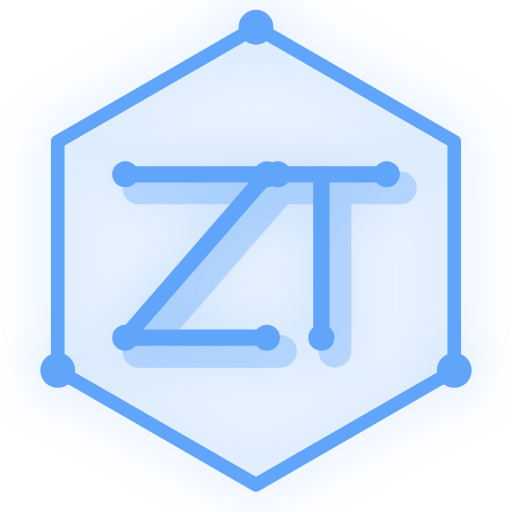
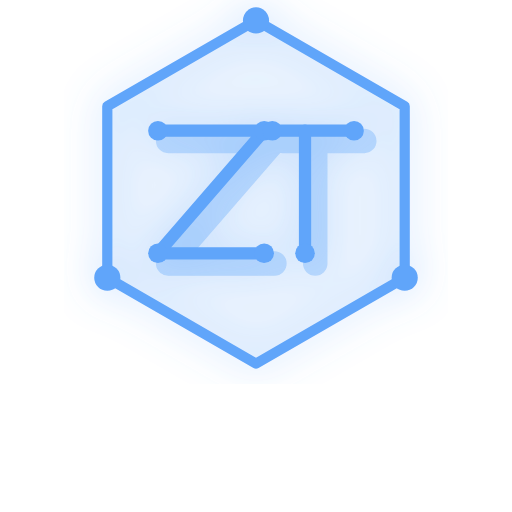
NetStudy v3: shrink home screen glyph to 75% safe zone so iOS mask doesn't crop it, cache-bust v3 (SW v18)

diff --git a/index.html b/index.html
@@ -10,8 +10,8 @@
 <title>NetStudy</title>
 <link rel="manifest" href="manifest.json">
   <link rel="icon" href="icons/zokie.svg" type="image/svg+xml">
-  <link rel="icon" href="icons/icon-192.png?v=2" type="image/png">
-  <link rel="apple-touch-icon" sizes="180x180" href="icons/icon-180.png?v=2">
+  <link rel="icon" href="icons/icon-192.png?v=3" type="image/png">
+  <link rel="apple-touch-icon" sizes="180x180" href="icons/icon-180.png?v=3">
 <link rel="stylesheet" href="style.css">
 <link rel="stylesheet" href="recall.css">
 </head>

diff --git a/sw.js b/sw.js
@@ -1,4 +1,4 @@
-const CACHE = 'netstudy-v17';
+const CACHE = 'netstudy-v18';
 const DATA_CACHE = 'netstudy-data-v1';
 const FILES = [
   '.',
